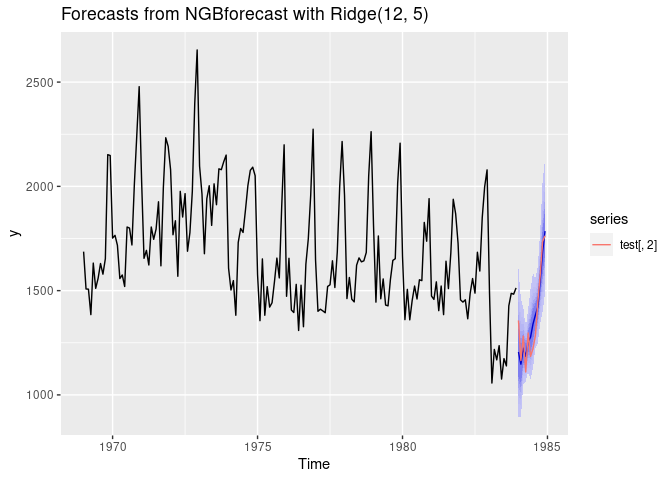
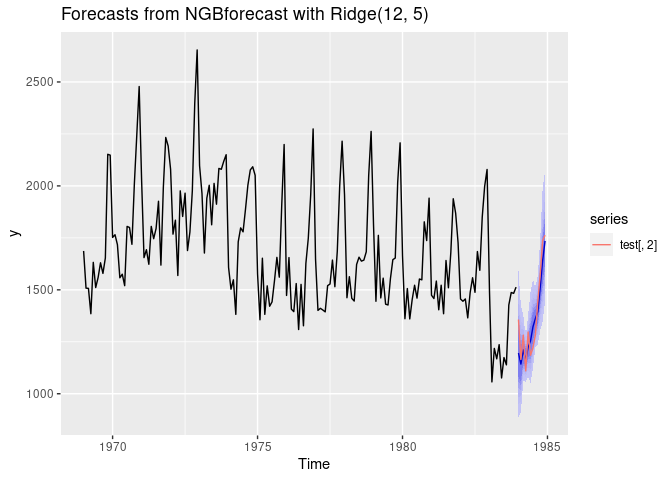
documentation

diff --git a/README.md b/README.md
@@ -77,18 +77,18 @@ library(ngboostForecast)
 
 dists <- list(Dist("Normal"))
 
-base_learners <- list(sklearner(module = "tree", class = "DecisionTreeRegressor", 
-                                max_depth = 1), 
+base_learners <- list(sklearner(module = "tree", class = "DecisionTreeRegressor",
+                                max_depth = 1),
                       sklearner(module = "tree", class = "DecisionTreeRegressor",
-                                max_depth = 2), 
+                                max_depth = 2),
                       sklearner(module = "tree", class = "DecisionTreeRegressor",
-                                max_depth = 3), 
+                                max_depth = 3),
                       sklearner(module = "tree", class = "DecisionTreeRegressor",
-                                max_depth = 4), 
+                                max_depth = 4),
                       sklearner(module = "tree", class = "DecisionTreeRegressor",
-                                max_depth = 5), 
+                                max_depth = 5),
                       sklearner(module = "tree", class = "DecisionTreeRegressor",
-                                max_depth = 6), 
+                                max_depth = 6),
                       sklearner(module = "tree", class = "DecisionTreeRegressor",
                                 max_depth = 7))
 
@@ -110,12 +110,12 @@ model <- NGBforecastCV$new(Dist = dists,
 ## Tune the model:
 
 ``` r
-params <- model$get_params(y = AirPassengers,
-                           seasonal = TRUE,
-                           max_lag = 12,
-                           xreg = NULL,
-                           early_stopping_rounds = NULL,
-                           n_splits = 4L)
+params <- model$tune(y = AirPassengers,
+                     seasonal = TRUE,
+                     max_lag = 12,
+                     xreg = NULL,
+                     early_stopping_rounds = NULL,
+                     n_splits = 4L)
 ```
 
 ## Best parameters:
@@ -124,7 +124,7 @@ params <- model$get_params(y = AirPassengers,
 params
 #> $ngboost_best_params
 #> $ngboost_best_params$Base
-#> DecisionTreeRegressor(max_depth=6.0)
+#> DecisionTreeRegressor(max_depth=5.0)
 #> 
 #> $ngboost_best_params$Dist
 #> <class 'ngboost.distns.normal.Normal'>
